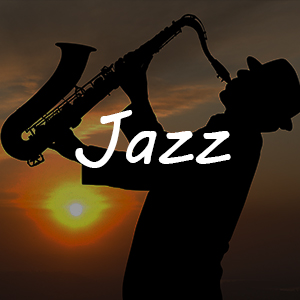
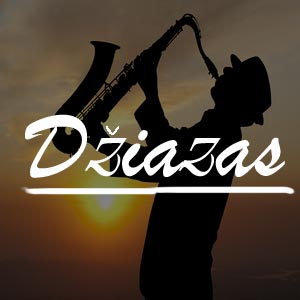
Revert "portfolio changes"
This reverts commit a23b23383f71b2fc1d1ea6abe319e3f724c471d0.

diff --git a/Portfolio.html b/Portfolio.html
@@ -105,55 +105,6 @@
 			height:3%; 
            
         }
-        
-        
-/* The grid: Four equal columns that floats next to each other */
-.column {
-    float: left;
-    object-fit: cover;
-
-    width: 20%; 
-    height: 300px;
-    
-
-    padding: 0px;
-}
-
-/* Style the images inside the grid */
-.column img {
-    opacity: 0.8; 
-    cursor: pointer; 
-}
-
-.column img:hover {
-    opacity: 1;
-}
-
-/* Clear floats after the columns */
-.row:after {
-    content: "";
-    display: table;
-    clear: both;
-}
-
-/* The expanding image container */
-.container {
-    position: relative;
-    
-    display: none;
-    margin-left: 30%;
-}
-
-
-/* Closable button inside the expanded image */
-.closebtn {
-    position: absolute;
-    top: 10px;
-    right: 15px;
-    color: white;
-    font-size: 35px;
-    cursor: pointer;
-}
 
     </style>
 <body>
@@ -165,12 +116,10 @@
     
     <div id="my_photo" style="margin-top: 80px">
         <img src="pht/IMG_5875.png" height="280" width="580" style="margin-left: 60px;"/>
-         
     </div>
-    
    
-    
 
+    
     <div id="text1st">
         <br><br><br><br><br>
         <font face = "Verdana" size = "5" style="margin-left:200px;" > Vilnius "Night life" website</font>
@@ -257,47 +206,10 @@
     </div>
     
     
-    
-       
-    <div class="row">
-        
-  <div class="column">
-    <img src="des/vi.jpg" style="width:100%; height:100%" onclick="myFunction(this);">
-  </div>
-  <div class="column">
-    <img src="des/du.png" style="width:100%; height:100%" onclick="myFunction(this);">
-  </div>
-  <div class="column">
-    <img src="des/tr.png"  style="width:100%; height:100%" onclick="myFunction(this);">
-  </div>
-  <div class="column">
-    <img src="des/ke.jpg" style="width:100%; height:100%" onclick="myFunction(this);">
-  </div>
-        <div class="column">
-    <img src="des/pe.png" style="width:100%; height:100%" onclick="myFunction(this);">
-  </div>
-</div>
-
-<div class="container" style="width:40%; height:60%">
-  <span onclick="this.parentElement.style.display='none'" class="closebtn">&times;</span>
-  <img id="expandedImg" style="width:100%; height:100%;  object-fit: cover;">
-  <div id="imgtext"></div>
-</div>
-    
-    
      <footer >
             <div id="foot">
                         <p>&nbsp &nbsp© Agnė Juškaitė, 2019.</p>
             </div>
         </footer>
-    
-    
-<script>
-function myFunction(imgs) {
-    var expandImg = document.getElementById("expandedImg");
-    expandImg.src = imgs.src;
-    expandImg.parentElement.style.display = "block";
-}
-</script>
 </body>
 </html>
